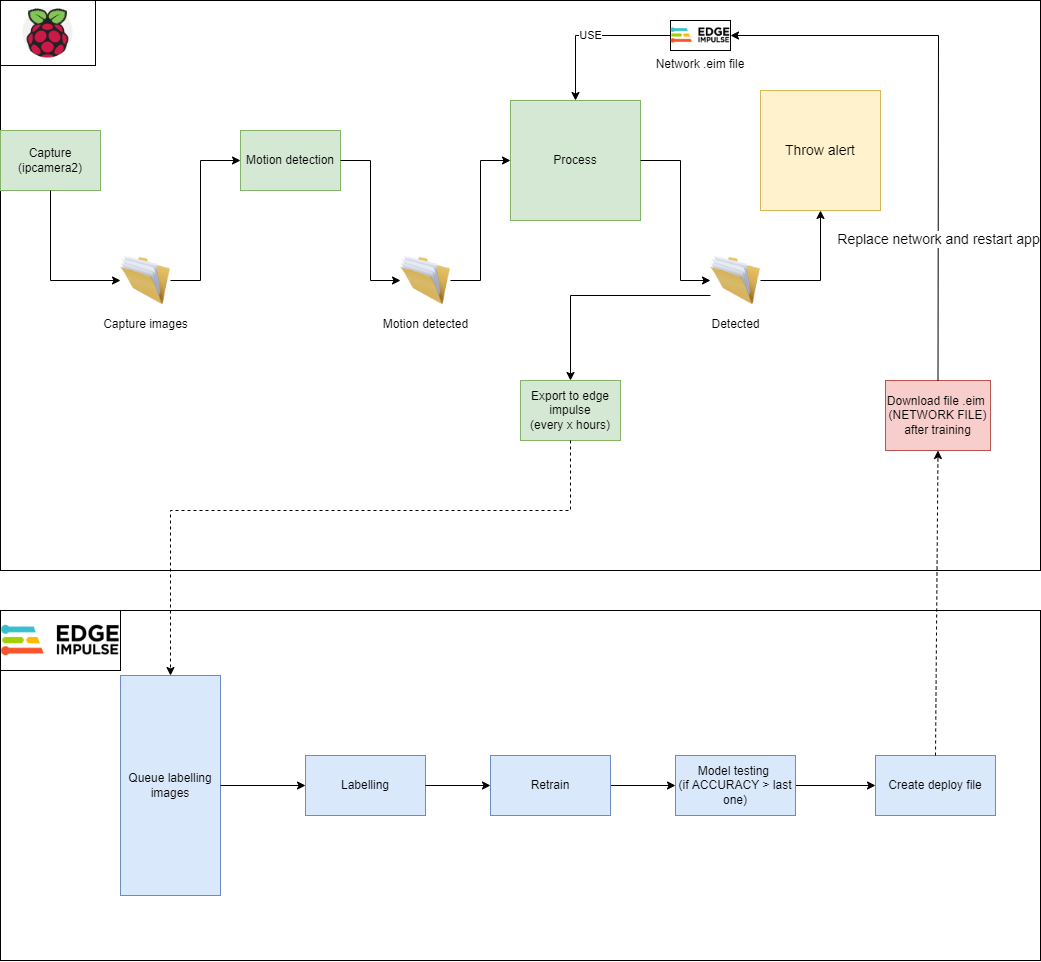
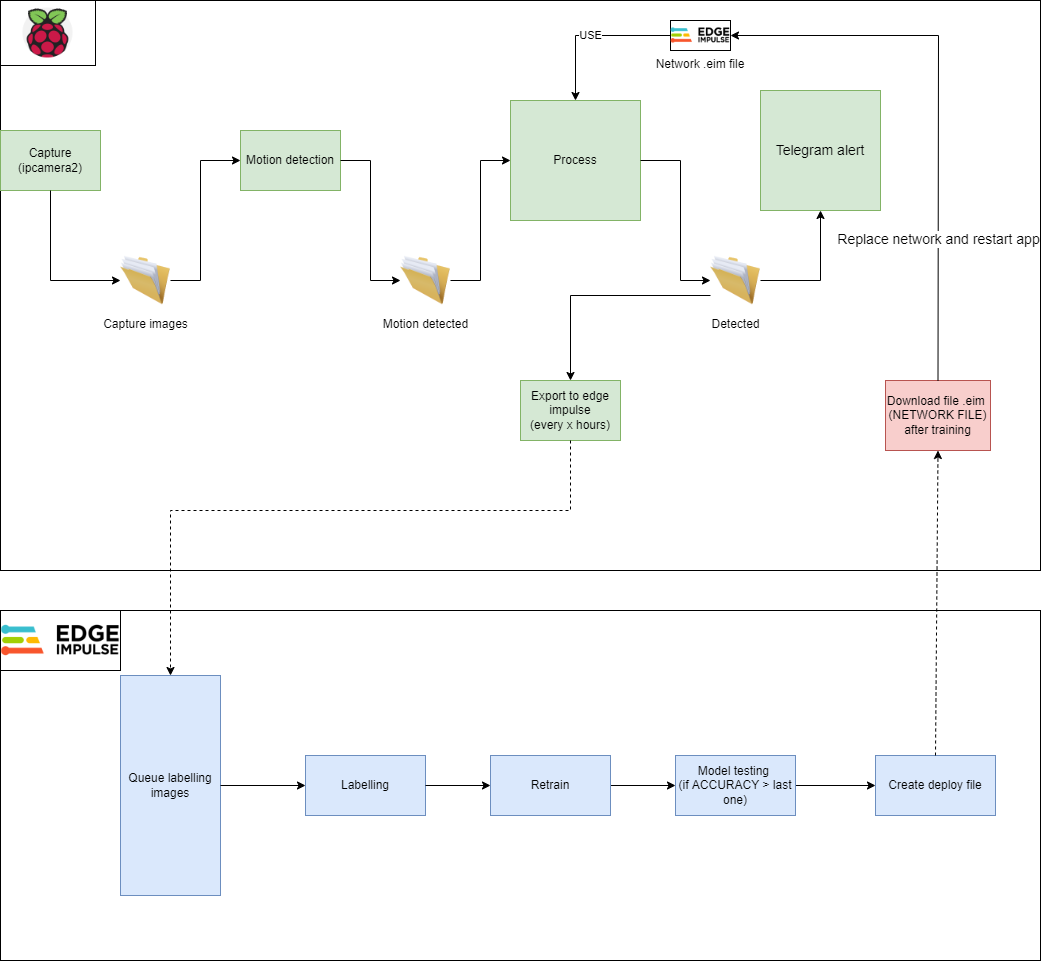
Add files via upload

Changed region(s): [[0.707, 0.0936, 0.8607, 0.2183]]

diff --git a/Motion/motion.py b/Motion/motion.py
@@ -47,80 +47,86 @@ def get_image(dir_name,file_name):
 
 
 def main(argv):
-    try:
-        opts, args = getopt.getopt(argv, "h", ["--help"])
-    except getopt.GetoptError:
-        sys.exit(2)
-
-    dir_name = args[0]
-    # Get list of all files only in the given directory
-    list_of_files = filter( lambda x: os.path.isfile(os.path.join(dir_name, x)),
-                            os.listdir(dir_name) )
-    # Sort list of files based on last modification time in ascending order
-    list_of_files = sorted( list_of_files,
-                            key = lambda x: os.path.getmtime(os.path.join(dir_name, x)))
-    # Iterate over sorted list of files and print file path
-    # along with last modification time of file
-
-    file_path = os.path.join(dir_name, list_of_files[0])
-    frame1 = get_image(dir_name,file_path)
-    RoisClass=Rois()
-    RoisClass.choose_ROIs(frame1)
-    frame2 = get_image(dir_name,file_path)
-
-    filenametodel=''
-
     while True:
-        time.sleep(1)
-        list_of_files = filter(lambda x: os.path.isfile(os.path.join(dir_name, x)),
-                               os.listdir(dir_name))
-        # Sort list of files based on last modification time in ascending order
-        list_of_files = sorted(list_of_files,
-                               key=lambda x: os.path.getmtime(os.path.join(dir_name, x)))
-        # Iterate over sorted list of files and print file path
-        # along with last modification time of file
-
-        for file_name in list_of_files:
-
-            #find diff between frames
-            diff = cv2.absdiff(frame1,frame2)
-
-            gray = cv2.cvtColor(diff, cv2.COLOR_BGR2GRAY)
-            blur=cv2.GaussianBlur(gray,(5,5),0)
-
-            #find threshold
-            _,thresh=cv2.threshold(blur,20, 255, cv2.THRESH_BINARY)
-            #cv2.imshow("feed3", thresh)
-            dilated=cv2.dilate(thresh,None, iterations=3)#3 can be change, more is  better
-
-            #cv2.imshow("feed2", dilated)
-            contours,_=cv2.findContours(dilated,cv2.RETR_TREE,cv2.CHAIN_APPROX_SIMPLE)
-
-
-            for contour in contours:
-                (x,y,w,h)=cv2.boundingRect(contour)
-
-                if cv2.contourArea(contour) < 700:
-                    continue
-                if RoisClass.overlap(frame1,x,y,w,h):
-                    print("OK")
-                    now = datetime.datetime.now()
-                    cv2.imwrite('./motion/'+str(now.hour)+str(now.minute)+str(now.second)+'.jpg',  cv2.cvtColor(frame1, 0)) 
-                    #cv2.rectangle(frame1,(x,y),(x+w,y+h), (0,255,245), 2)
-
-            #cv2.drawContours(frame1,contours,-1,(0,255,0), 2)
-            #cv2.imshow("feed", frame1)
-            frame1=frame2
-
-            frame2 = get_image(dir_name,file_name)
-
-            #remove old photo
-            if filenametodel!='':
-                try:
-                    os.remove(filenametodel)
-                except Exception as ex:
-                    print(ex)
-            filenametodel=os.path.join(dir_name, file_name)
+        try:
+            opts, args = getopt.getopt(argv, "h", ["--help"])
+        except getopt.GetoptError:
+            sys.exit(2)
+        try:
+            dir_name = args[0]
+            # Get list of all files only in the given directory
+            list_of_files = filter( lambda x: os.path.isfile(os.path.join(dir_name, x)),
+                                    os.listdir(dir_name) )
+            # Sort list of files based on last modification time in ascending order
+            list_of_files = sorted( list_of_files,
+                                    key = lambda x: os.path.getmtime(os.path.join(dir_name, x)))
+            # Iterate over sorted list of files and print file path
+            # along with last modification time of file
+    
+            file_path = os.path.join(dir_name, list_of_files[0])
+            frame1 = get_image(dir_name,file_path)
+            RoisClass=Rois()
+            RoisClass.choose_ROIs(frame1)
+            frame2 = get_image(dir_name,file_path)
+    
+            filenametodel=''
+    
+            while True:
+                time.sleep(1)
+                list_of_files = filter(lambda x: os.path.isfile(os.path.join(dir_name, x)),
+                                       os.listdir(dir_name))
+                # Sort list of files based on last modification time in ascending order
+                list_of_files = sorted(list_of_files,
+                                       key=lambda x: os.path.getmtime(os.path.join(dir_name, x)))
+                # Iterate over sorted list of files and print file path
+                # along with last modification time of file
+    
+                for file_name in list_of_files:
+                
+                        #find diff between frames
+                        diff = cv2.absdiff(frame1,frame2)
+    
+                        gray = cv2.cvtColor(diff, cv2.COLOR_BGR2GRAY)
+                        blur=cv2.GaussianBlur(gray,(5,5),0)
+    
+                        #find threshold
+                        _,thresh=cv2.threshold(blur,20, 255, cv2.THRESH_BINARY)
+                        #cv2.imshow("feed3", thresh)
+                        dilated=cv2.dilate(thresh,None, iterations=3)#3 can be change, more is  better
+    
+                        #cv2.imshow("feed2", dilated)
+                        contours,_=cv2.findContours(dilated,cv2.RETR_TREE,cv2.CHAIN_APPROX_SIMPLE)
+    
+    
+                        for contour in contours:
+                            (x,y,w,h)=cv2.boundingRect(contour)
+    
+                            if cv2.contourArea(contour) < 700:
+                                continue
+                            if RoisClass.overlap(frame1,x,y,w,h):
+                                print("OK")
+                                now = datetime.datetime.now()
+                                cv2.imwrite('./motion/'+str(now.hour)+str(now.minute)+str(now.second)+'.jpg',  cv2.cvtColor(frame1, 0)) 
+                                #cv2.rectangle(frame1,(x,y),(x+w,y+h), (0,255,245), 2)
+    
+                        #draw
+                        frame3=frame1
+                        cv2.drawContours(frame3,contours,-1,(0,255,0), 2)
+                        cv2.imwrite("motion.jpg", frame3)
+    
+                        frame1=frame2
+    
+                        frame2 = get_image(dir_name,file_name)
+    
+                        #remove old photo
+                        if filenametodel!='':
+                            try:
+                                os.remove(filenametodel)
+                            except Exception as ex:
+                                print(ex)
+                        filenametodel=os.path.join(dir_name, file_name)
+        except Exception as ex:
+            pass           
 
 
     #cv2.destroyAllWindows()

diff --git a/Classify/classify-image.py b/Classify/classify-image.py
@@ -74,22 +74,26 @@ def main(argv):
                     res = runner.classify(features)
 
                     if "classification" in res["result"].keys():
-                        print('Result (%d ms.) ' % (res['timing']['dsp'] + res['timing']['classification']), end='')
+                        #print('Result (%d ms.) ' % (res['timing']['dsp'] + res['timing']['classification']), end='')
                         for label in labels:
                             score = res['result']['classification'][label]
-                            print('%s: %.2f\t' % (label, score), end='')
+                            #print('%s: %.2f\t' % (label, score), end='')
                         print('', flush=True)
 
                     elif "bounding_boxes" in res["result"].keys():
-                        print('Found %d bounding boxes (%d ms.)' % (len(res["result"]["bounding_boxes"]), res['timing']['dsp'] + res['timing']['classification']))
+                        #print('Found %d bounding boxes (%d ms.)' % (len(res["result"]["bounding_boxes"]), res['timing']['dsp'] + res['timing']['classification']))
                         for bb in res["result"]["bounding_boxes"]:
-                            print('\t%s (%.2f): x=%d y=%d w=%d h=%d' % (bb['label'], bb['value'], bb['x'], bb['y'], bb['width'], bb['height']))
+                            #print('\t%s (%.2f): x=%d y=%d w=%d h=%d' % (bb['label'], bb['value'], bb['x'], bb['y'], bb['width'], bb['height']))
                             #cropped = cv2.rectangle(cropped, (bb['x'], bb['y']), (bb['x'] + bb['width'], bb['y'] + bb['height']), (255, 0, 0), 1)
-                            if bb['value']>0.7:
-                                now = datetime.datetime.now()
-
-                                #save image on folder
-                                cv2.imwrite('./detected/'+str(now.hour)+str(now.minute)+str(now.second)+'.jpg',  cv2.cvtColor(cropped, cv2.COLOR_RGB2BGR)) 
+                            #cv2.imwrite("detected.jpg",cv2.cvtColor(cropped, cv2.COLOR_RGB2BGR)) 
+                            if bb['value']>0.85:
+                                cropped = cv2.rectangle(cropped, (bb['x'], bb['y']), (bb['x'] + bb['width'], bb['y'] + bb['height']), (255, 0, 0), 1)
+                                #cv2.imwrite("detected.jpg",cv2.cvtColor(cropped, cv2.COLOR_RGB2BGR)) 
+                                #now = datetime.datetime.now()
+                    now = datetime.datetime.now()           
+                    cv2.imwrite('./detected/'+str(now.hour)+str(now.minute)+str(now.second)+'.jpg',  cv2.cvtColor(cropped, cv2.COLOR_RGB2BGR)) 
+                    cv2.imwrite('./detectedTelegram/'+str(now.hour)+str(now.minute)+str(now.second)+'.jpg',  cv2.cvtColor(cropped, cv2.COLOR_RGB2BGR)) 
+                    #cv2.imwrite("detected.jpg",cv2.cvtColor(cropped, cv2.COLOR_RGB2BGR)) 
                     os.remove(file_path)      
                 time.sleep(5) 
 

diff --git a/Upload/uploadTelegram.py b/Upload/uploadTelegram.py
@@ -1,0 +1,34 @@
+import telegram.ext
+from telegram import Bot
+import os
+with open('token.txt','r') as f:
+    TOKEN = f.read()
+
+
+
+channel_id="-790283961"
+bot = Bot(TOKEN)
+#bot.send_message(channel_id, "test")
+
+#bot.send_photo(channel_id,photo=open("C:\\Users\\Practica 2019\\Desktop\\Capture.PNG","rb"))
+
+
+import os
+import time
+
+while True:
+    dir_name = "/root/edge/linux-sdk-python/working/detectedTelegram/"
+    # Get list of all files only in the given directory
+    list_of_files = filter( lambda x: os.path.isfile(os.path.join(dir_name, x)),
+                            os.listdir(dir_name) )
+    # Sort list of files based on last modification time in ascending order
+    list_of_files = sorted( list_of_files,
+                            key = lambda x: os.path.getmtime(os.path.join(dir_name, x)))
+    # Iterate over sorted list of files and print file path
+    # along with last modification time of file
+
+    for file in list_of_files:
+        bot.send_photo(channel_id,photo=open(os.path.join(dir_name, file),"rb"))
+        time.sleep(3)
+        os.remove(os.path.join(dir_name, file))
+    time.sleep(10)

diff --git a/Capture/getstream.py b/Capture/getstream.py
@@ -1,0 +1,15 @@
+import cv2
+import numpy as np
+import datetime
+vcap = cv2.VideoCapture("rtsp://admin:1qazxsw2@95.87.206.5", cv2.CAP_FFMPEG)
+
+while(1):
+    ret, frame = vcap.read()
+    if ret == False:
+        print("Frame is empty")
+        break
+    else:
+        now = datetime.datetime.now()
+        cv2.imwrite('./pictures/'+str(now.hour)+str(now.minute)+str(now.second)+'.jpg', frame)
+        cv2.waitKey(1)
+    vcap.release()

diff --git a/Capture/picamera.py b/Capture/picamera.py
@@ -36,8 +36,9 @@ def main(argv):
     while True:
         now = datetime.datetime.now()
         metadata = picam2.capture_file('./pictures/'+str(now.hour)+str(now.minute)+str(now.second)+'.jpg')
+        #metadata = picam2.capture_file('capture.jpg')
         time.sleep(sleep)
-        print(metadata)
+        #print(metadata)
 
 
 if __name__ == "__main__":

diff --git a/README.md b/README.md
@@ -1,7 +1,12 @@
 ![Workflow](img/workflow.png)
 
+Introduction
+============
+
+Aribbada Smart Camera - is a project which aims to perform with the help of artificial intelligence the detection (during the day and at night) and alerting people when a wild animal appears in the area of interest
+
 Structure
----------------
+============
 
 Capture app - captures and saves photos from the camera connected to RaspberryPi
 Motion app - performs motion detection over a given perimeter
@@ -10,7 +15,7 @@ Upload app - upload images from "detected" folder to Edge Impulse Addnotation Qu
 
 
 How to install
----------------
+============
 Install Python >3.9
 Install requirements
 ```python
@@ -20,7 +25,7 @@ Install Edge Impulse CLI
 
 
 How to run
----------------
+============
 
 ```python
 python picamera.py
